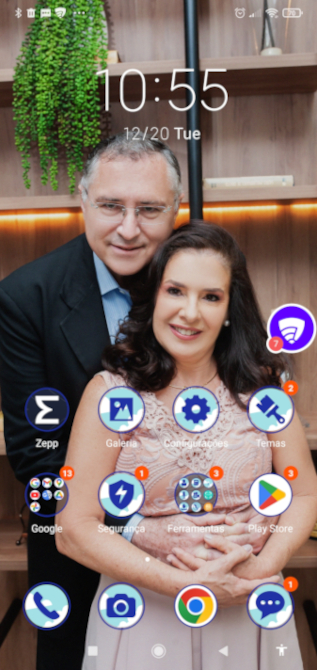
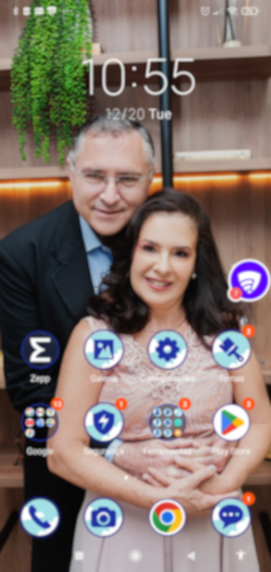
Troca de celular
Alterei o celular para o Iphone e ajustei os tamanhos das imagens.

diff --git a/estilos/style.css b/estilos/style.css
@@ -28,17 +28,17 @@ section#telefone {
     top: 50%;
     left: 50%;
     transform: translate(-50%,-50%);
-    height: 697px;
-    width: 337px;
-    background: url("../imagens/xiaomi-mi-8-lite1.png") no-repeat;
+    height: 627px;
+    width: 311px;
+    background: url("../imagens/frame-iphone.png") no-repeat;
 }
 
 iframe#tela {
     position: relative;
-    top: 46px;
+    top: 49px;
     left: 18px;
-    height: 620px;
-    width: 302px;
+    height: 550px;
+    width: 271px;
 }
 
 section#redes-sociais {

diff --git a/estilos/social.css b/estilos/social.css
@@ -23,6 +23,7 @@ a {
     color: white;
     font-weight: bolder;
     text-decoration: none;
+    border-radius: 0px 0px 10px 10px;
 }
 
 a:hover {
